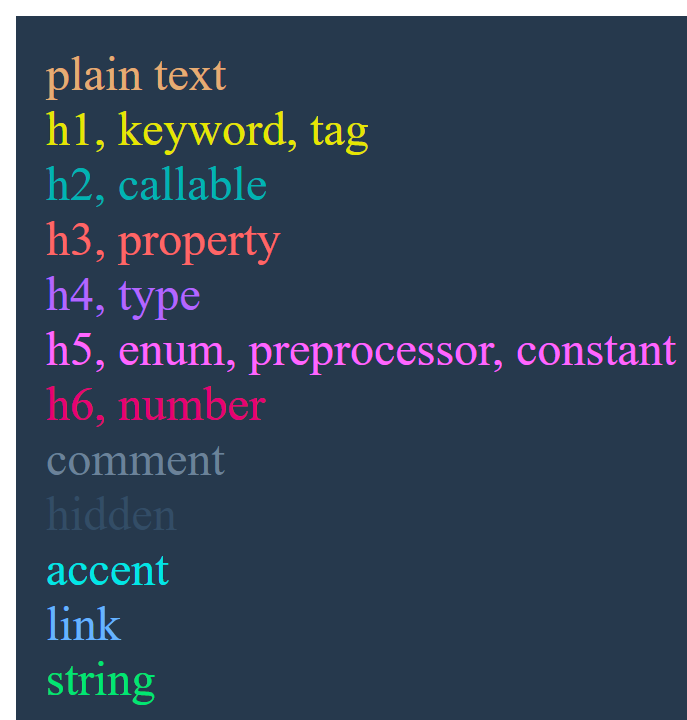
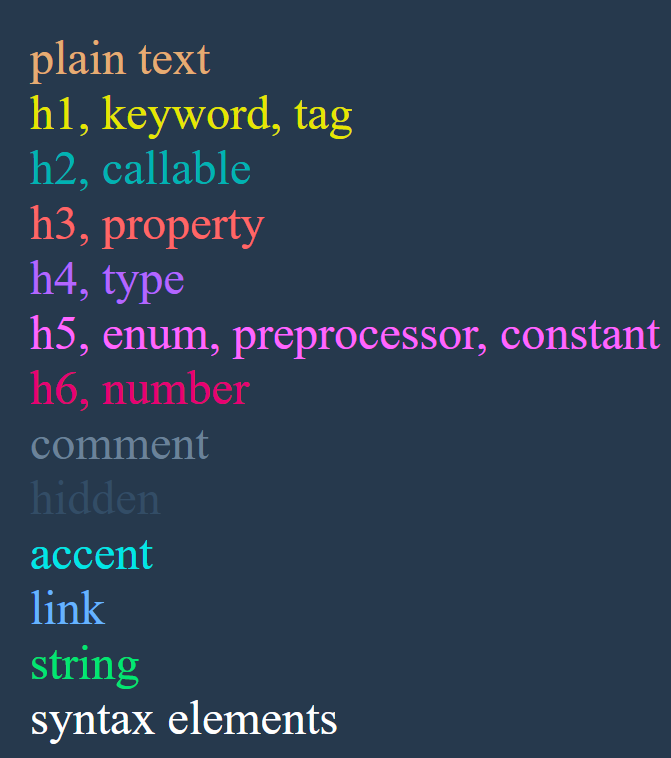
More docs, fixed background and foreground color tint, old 'ruby' versions was used previously

Changed region(s): [[0.0, 0.0, 1.0, 1.0]]

diff --git a/vscode/doc/color_table.html b/vscode/doc/color_table.html
@@ -11,4 +11,5 @@
   <div style="color: #00e6e6;">accent</div>
   <div style="color: #66b3ff;">link</div>
   <div style="color: #00e673;">string</div>
+  <div style="color: #ffffff;">syntax elements</div>
 </div>

diff --git a/vscode/README.md b/vscode/README.md
@@ -8,3 +8,27 @@ with "Xi" personal wiki markup language:
 ## Color table
 
 <img src="https://raw.githubusercontent.com/grigoryvp/color-theme/master/vscode/doc/color_table.png" width="256">
+
+## Color usage
+
+### Background
+
+Taken long time ago from the code sample on the Ruby programming language
+[homepage](https://www.ruby-lang.org/en/) and modified a bit to fit into
+`HSV` round values. On the HSV color wheel the color is located between blue
+and cyan (210 degrees) and has no distinctive name as far as I know.
+Saturation is decreased to 50% and value is decreased to 30%.
+
+### Foreground
+
+As with all color themes it's complimentary to background. Appears to be
+a nice shade of sand and reminds me old "Yellow on blue" Norton Commander
+color theme, just not **that** bright.
+
+### Heading 1
+
+The color scheme is tailored towards Xi markup language and should make
+6 levels of headers to stand out from plain text, code smaples, terms and
+highlights. The first color is yellow (60 degrees HSV color wheel) with
+a value slightly reduced to 90%. For programming languages it's used to
+mark common things that stand out: keywords and tag names.
